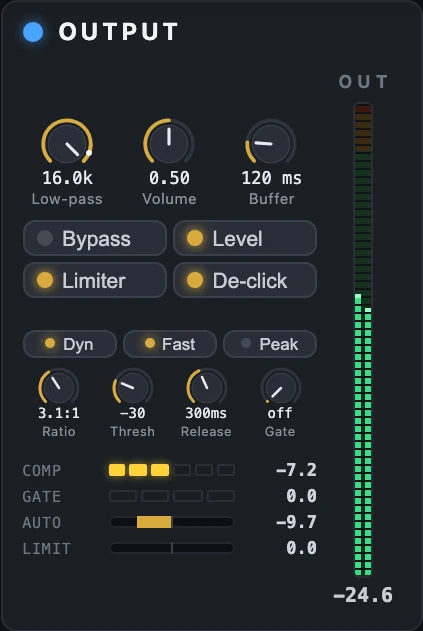
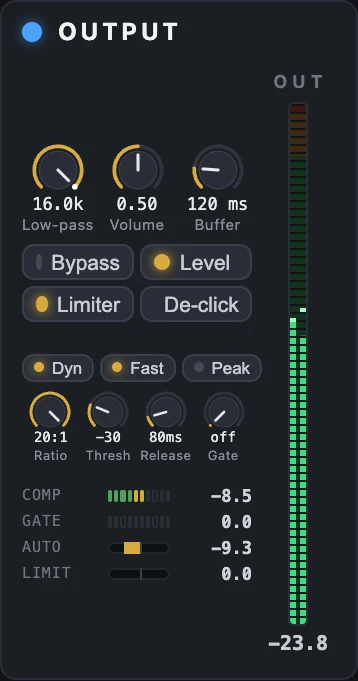
Site: Output panel re-taken with the banded COMP row; the Dynamics figure in ten cells on the panel's scales

diff --git a/docs/index.html b/docs/index.html
@@ -143,7 +143,7 @@
         <figcaption><span class="tag">Signal path</span>The route through the model and out as sound, live. A selected card lights its unit's lane.</figcaption>
       </figure>
       <figure class="clip green" style="--w:150px;--mw:190px">
-        <a class="shot" href="img/c-output.webp" data-cap="Output while it plays: a low-pass at 16 kHz, volume 0.50, a buffer of 400 ms ahead of the sound card, auto level, limiter and De-click on, Bypass off. Dynamics: a compressor at 3.1:1 from −30 dBFS with fast attack, the gate off. The rows show the compressor's and gate's reduction on LEDs, auto level's gain and the limiter's pull. The OUT meter lights in cells, green, amber from −6 dB and red from −1 dB, with a hold line on each channel's peak."><img src="img/c-output.webp" width="423" height="631" loading="lazy" alt="The Output panel: knobs for Low-pass 16.0k, Volume 0.50 and Buffer 240 ms; switches Bypass, Level, Limiter and De-click, two by two; Dyn, Fast and Peak switches over Ratio, Thresh, Release and Gate knobs; rows of LEDs for Comp, Gate, Auto and Limit with their readings; and a tall OUT meter of green cells."></a>
+        <a class="shot" href="img/c-output.webp" data-cap="Output while it plays: a low-pass at 16 kHz, volume 0.50, a buffer of 120 ms ahead of the sound card, auto level, limiter and De-click on, Bypass off. Dynamics: a compressor at 20:1 from −30 dBFS with fast attack, the gate off. The rows show the compressor's and gate's reduction on LEDs (the compressor's green to 4 dB, yellow to 10, red above), auto level's gain and the limiter's pull. The OUT meter lights in cells, green, amber from −6 dB and red from −1 dB, with a hold line on each channel's peak."><img src="img/c-output.webp" width="358" height="681" loading="lazy" alt="The Output panel: knobs for Low-pass 16.0k, Volume 0.50 and Buffer 120 ms; switches Bypass, Level, Limiter and De-click, two by two; Dyn, Fast and Peak switches over Ratio, Thresh, Release and Gate knobs; rows of LEDs for Comp, Gate, Auto and Limit with their readings; and a tall OUT meter of green cells."></a>
         <figcaption><span class="tag">Output</span>De-click, auto level, Dynamics (a compressor and gate), low-pass, limiter and volume, with Bypass to hear the model before them.</figcaption>
       </figure>
     </div>

diff --git a/docs/chain.js b/docs/chain.js
@@ -263,11 +263,16 @@
       s += C(sx(lvl).toFixed(1), clamp(sy(out(lvl)), Y, Y + H).toFixed(1), 6, "f-acc", ' style="filter:drop-shadow(0 0 5px var(--accent))"');
       var X2 = 520, comp = Math.max(0, lvl - st.thresh) * (1 - 1 / st.ratio), gated = st.gate > -79.5 && lvl < st.gate;
       s += T(X2, 70, "COMP", "f-dim t-xs t-up") + T(X2, 120, "GATE", "f-dim t-xs t-up");
-      for (i = 0; i < 6; i++) { var on = comp > i * 3 + 0.5; s += R(X2 + 60 + i * 44, 58, 38, 14, on ? (i > 3 ? "f-red" : "f-acc") : "f-panel", ' style="stroke:var(--fig-line)"'); }
-      for (i = 0; i < 4; i++) { s += R(X2 + 60 + i * 66, 108, 60, 14, gated ? "f-blue" : "f-panel", ' style="stroke:var(--fig-line)"'); }
-      s += T(X2 + 340, 70, "−" + comp.toFixed(1), "f-ink t-s") + T(X2 + 340, 120, gated ? "−40" : "0.0", "f-ink t-s");
+      // ten cells each, on the panel's scales: green to 4 dB, yellow to 10, red above
+      var COMP = [1, 2, 3, 4, 6, 8, 10, 12, 15, 20], GATE = [2, 4, 6, 8, 10, 15, 20, 25, 30, 40], gdb = gated ? 40 : 0;
+      for (i = 0; i < 10; i++) {
+        var band = i < 4 ? "#4d9f5a" : i < 7 ? "#d4b13a" : "#c84a38";
+        s += R(X2 + 60 + i * 26, 58, 22, 14, "f-panel", comp >= COMP[i] ? ' style="fill:' + band + ';stroke:var(--fig-line)"' : ' style="stroke:var(--fig-line)"');
+        s += R(X2 + 60 + i * 26, 108, 22, 14, "f-panel", gdb >= GATE[i] ? ' style="fill:#4dff8a;stroke:var(--fig-line)"' : ' style="stroke:var(--fig-line)"');
+      }
+      s += T(X2 + 340, 70, comp >= 0.05 ? "−" + comp.toFixed(1) : "0.0", "f-ink t-s") + T(X2 + 340, 120, gated ? "−40" : "0.0", "f-ink t-s");
       s += T(X2, 180, "in " + lvl.toFixed(1) + " dBFS → out " + out(lvl).toFixed(1), "f-ink t-m");
-      s += T(X2, 204, "the compressor's LEDs light in 3 dB steps of reduction", "f-dim t-xs");
+      s += T(X2, 204, "COMP cells: 1, 2, 3, 4, 6, 8, 10, 12, 15, 20 dB of reduction", "f-dim t-xs");
       f.svg.innerHTML = s;
       readout(f, "Ratio <b>" + st.ratio.toFixed(1) + ":1</b> above <b>" + st.thresh + " dBFS</b> · gate " + (st.gate > -79.5 ? "closes <b>40 dB</b> below <b>" + st.gate + " dBFS</b>" : "<b>off</b>") + " · now <b>" + red.toFixed(1) + " dB</b>");
     };

diff --git a/docs/output.html b/docs/output.html
@@ -83,7 +83,7 @@
       </div>
       <div>
         <figure class="clip green" style="--w:230px;--mw:260px">
-          <a class="shot" href="img/chain/out-panel.webp" data-cap="The Output panel while it plays: Low-pass, Volume and Buffer; Bypass, Level, Limiter and De-click; Dynamics with Fast and Peak, Ratio, Threshold, Release and Gate; the rows of reduction for the compressor, gate, auto level and limiter; and the OUT meter."><img src="img/chain/out-panel.webp" width="423" height="631" loading="lazy" alt="The Output panel: three knobs, four switches, the Dynamics switches and four knobs, four rows of reduction LEDs, and a tall OUT meter of green cells."></a>
+          <a class="shot" href="img/chain/out-panel.webp" data-cap="The Output panel while it plays: Low-pass, Volume and Buffer; Bypass, Level, Limiter and De-click; Dynamics with Fast and Peak, Ratio, Threshold, Release and Gate; the rows of reduction for the compressor, gate, auto level and limiter; and the OUT meter."><img src="img/chain/out-panel.webp" width="358" height="681" loading="lazy" alt="The Output panel: three knobs, four switches, the Dynamics switches and four knobs, four rows of reduction LEDs, and a tall OUT meter of green cells."></a>
           <figcaption><span class="tag">Output</span>The whole section on one panel, with the OUT meter.</figcaption>
         </figure>
       </div>
@@ -204,6 +204,6 @@
 
 <audio id="player" preload="none"></audio>
 <script src="site.js?v=f8f63539"></script>
-<script src="chain.js?v=43fbe03f"></script>
+<script src="chain.js?v=efce0bf8"></script>
 </body>
 </html>

diff --git a/docs/effects.html b/docs/effects.html
@@ -243,6 +243,6 @@
 
 <audio id="player" preload="none"></audio>
 <script src="site.js?v=f8f63539"></script>
-<script src="chain.js?v=43fbe03f"></script>
+<script src="chain.js?v=efce0bf8"></script>
 </body>
 </html>

diff --git a/docs/engine.html b/docs/engine.html
@@ -217,6 +217,6 @@
 
 <audio id="player" preload="none"></audio>
 <script src="site.js?v=f8f63539"></script>
-<script src="chain.js?v=43fbe03f"></script>
+<script src="chain.js?v=efce0bf8"></script>
 </body>
 </html>
